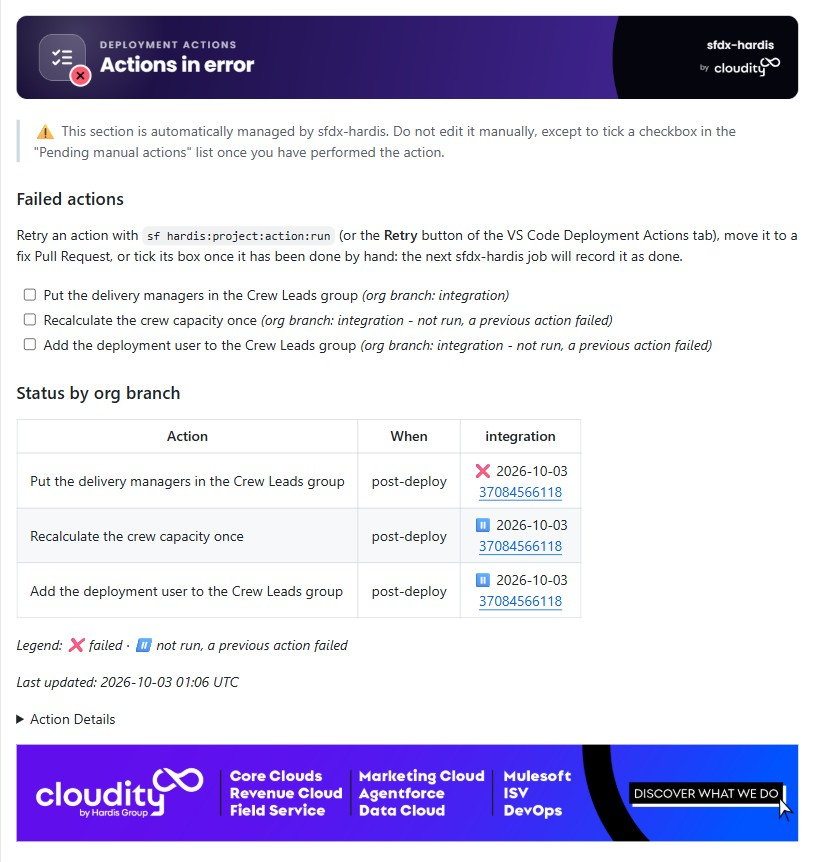
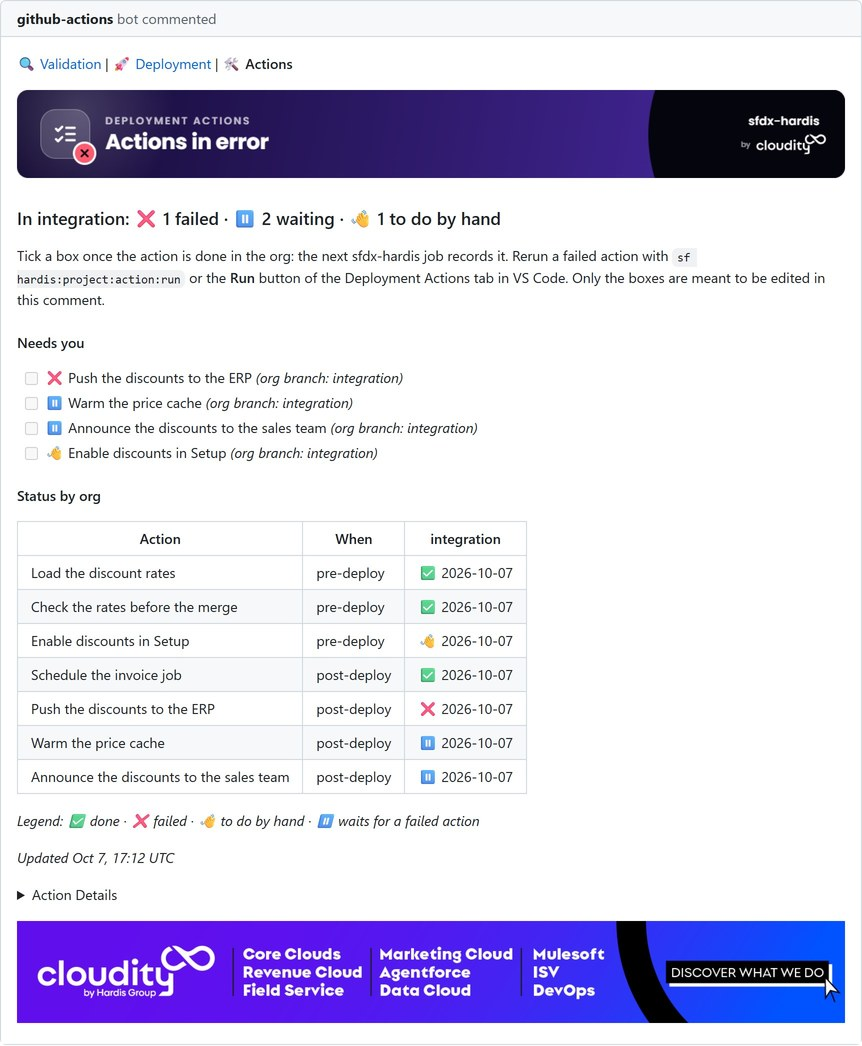
docs: Pull Request comment screenshots from a real run

Changed region(s): [[0.0, 0.0, 1.0, 0.9954], [0.5835, 0.4826, 0.6757, 0.5128], [0.9521, 0.2715, 0.9828, 0.3016]]

diff --git a/src/commands/hardis/project/deploy/smart.ts b/src/commands/hardis/project/deploy/smart.ts
@@ -182,6 +182,16 @@ The validation and deployment Pull Request comments all read the same way:
 - What **needs you**: deployment errors with their tips, failed actions with the end of their output, and the manual actions to perform, as checkboxes.
 - The **details**, folded: every deployment action of the job, the components per metadata type, the protected components, the Apex test classes, the tickets and the carried Pull Requests.
 
+![Validation Pull Request comment: verdict, checks and the manual action to do before the deployment](https://github.com/hardisgroupcom/sfdx-hardis/raw/main/docs/assets/images/screenshot-pr-comment-validation.png)
+
+When a post-deployment action fails, the deployment comment says the metadata is in the org, and shows the end of the output of the failed action:
+
+![Deployment Pull Request comment: deployed, but a post-deployment action failed](https://github.com/hardisgroupcom/sfdx-hardis/raw/main/docs/assets/images/screenshot-pr-comment-deployment-failed-action.png)
+
+Each changed Flow gets a comment of its own, with the changed properties first, then its diagram:
+
+![Visual git diff comment of a Flow](https://github.com/hardisgroupcom/sfdx-hardis/raw/main/docs/assets/images/screenshot-pr-comment-flow-diff.png)
+
 Each comment stays under 50,000 characters (30,000 on Bitbucket). Above that, long outputs and lists are shortened, then the biggest folded sections are left out, and the comment says so. A Flow whose only change is its status (activated or deactivated) gets no visual diff comment: the Flows line of the validation comment names it.
 
 ### Deployment components report

diff --git a/docs/hardis/project/deploy/smart.md b/docs/hardis/project/deploy/smart.md
@@ -121,13 +121,24 @@ If necessary,you can define the following files:
   - Can be overridden for a branch using .sfdx-hardis.yml property **packageNoOverwritePath** or environment variable PACKAGE_NO_OVERWRITE_PATH (for example, define: `packageNoOverwritePath: manifest/package-no-overwrite-main.xml` in config file `config/.sfdx-hardis.main.yml`)
 - `manifest/packageXmlOnChange.xml`: Every element defined in this file will not be deployed if it already has a similar definition in target org (can be useful for SharingRules for example)
 
-When components of the deployment package are protected by `package-no-overwrite.xml`, the Pull Request comment has a **Protected metadata** section counting the components already in the target org that are not overwritten, and the ones created this once, with a collapsed table per metadata type.
+When components of the deployment package are protected by `package-no-overwrite.xml`, the Pull Request comment has a folded **Protected by package-no-overwrite.xml** section counting the components already in the target org that are not overwritten, and the ones created this once, with a table per metadata type.
 
 See [Overwrite management documentation](https://sfdx-hardis.cloudity.com/salesforce-devops-config-overwrite/)
 
+### Pull Request comments
+
+The validation and deployment Pull Request comments all read the same way:
+
+- A **verdict** naming the target org: *Ready to merge into integration*, *Cannot merge into integration: 2 deployment errors*, *Deployed to integration, but an action failed after the deployment*...
+- A short table of **checks**: Metadata (deployed or not, and what changed), Apex tests (coverage, failures, or why none ran), Deployment actions (counts per status), Quick Deploy and Flows.
+- What **needs you**: deployment errors with their tips, failed actions with the end of their output, and the manual actions to perform, as checkboxes.
+- The **details**, folded: every deployment action of the job, the components per metadata type, the protected components, the Apex test classes, the tickets and the carried Pull Requests.
+
+Each comment stays under 50,000 characters (30,000 on Bitbucket). Above that, long outputs and lists are shortened, then the biggest folded sections are left out, and the comment says so. A Flow whose only change is its status (activated or deactivated) gets no visual diff comment: the Flows line of the validation comment names it.
+
 ### Deployment components report
 
-The validation and deployment Pull Request comments open on the code coverage, right under the deployment status, then count the components the deployment creates, updates, deletes or fails to deploy, with a collapsed table per metadata type. A validation comment calls its counts line **Simulated deployment**. Every table of these comments, Flow deletion included, is collapsed by default.
+The Metadata line of the checks counts the components the deployment creates, updates, deletes or fails to deploy, and a folded table splits them per metadata type.
 
 ![Validation Pull Request comment with the components per metadata type and the protected metadata](https://github.com/hardisgroupcom/sfdx-hardis/raw/main/docs/assets/images/screenshot-deployment-components-pr-comment.png)
 

diff --git a/docs/salesforce-deployment-agent-flow-visual-git-diff.md b/docs/salesforce-deployment-agent-flow-visual-git-diff.md
@@ -14,6 +14,12 @@ This helps reviewers:
 - Visually inspect Flow differences in a Mermaid diagram
 - Understand updates without opening raw XML metadata
 
+Each changed Flow gets a comment of its own: the properties that changed, with their value before and after, then the diagram. The full property tables of the Flow are folded below it.
+
+![Visual git diff comment of a Flow](assets/images/screenshot-pr-comment-flow-diff.png)
+
+A Flow whose only change is its status (activated or deactivated) gets no comment: the Flows line of the validation comment names it, with its status before and after.
+
 ## Legend
 
 - 🟩 = added
